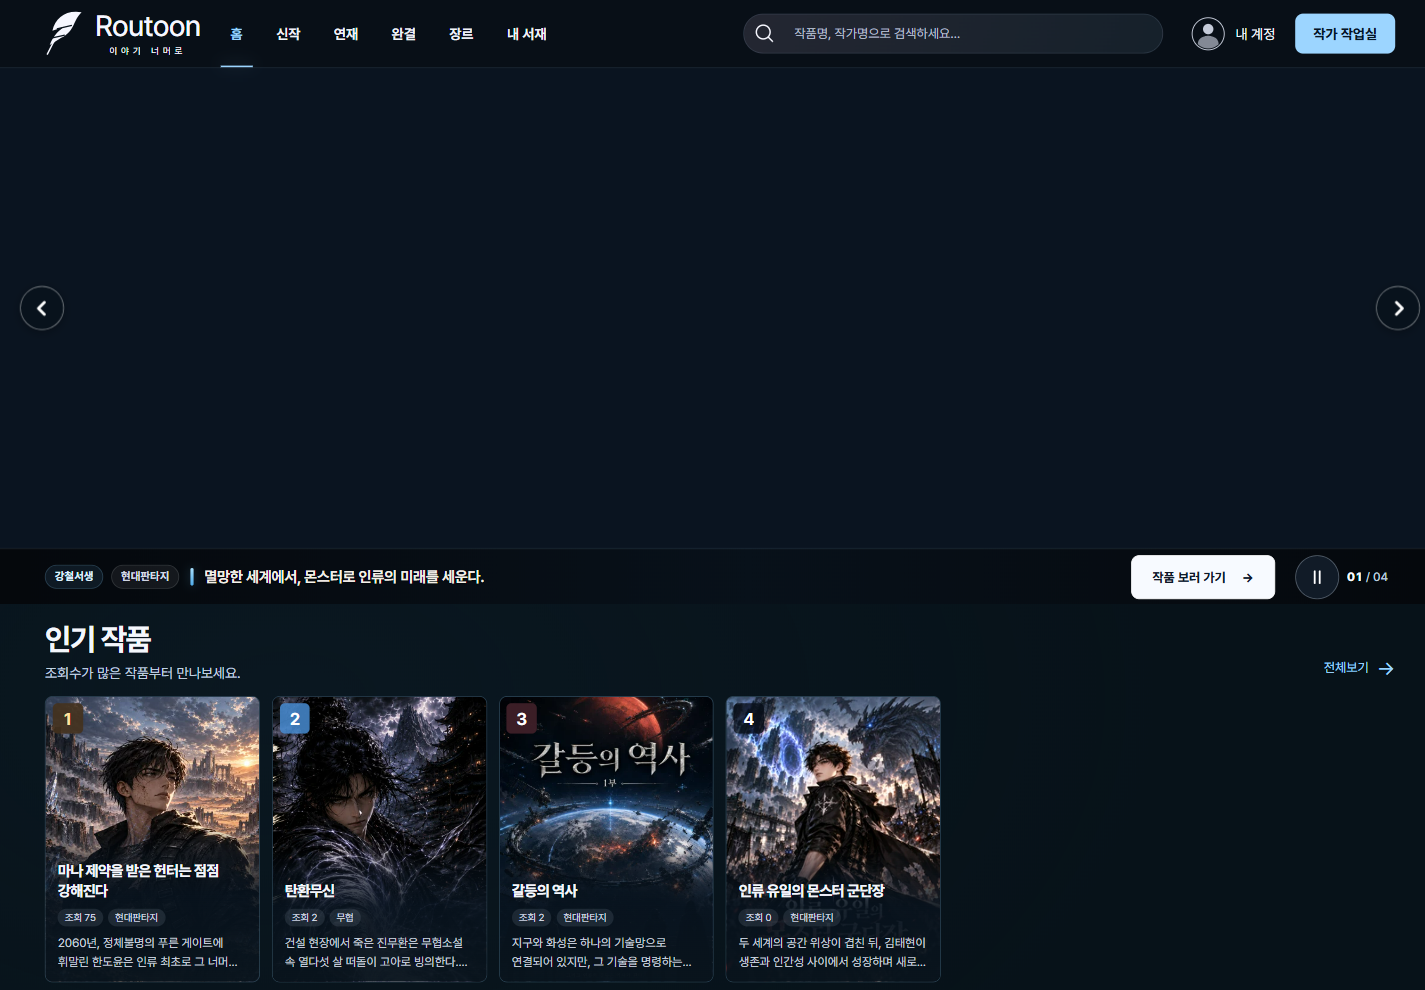
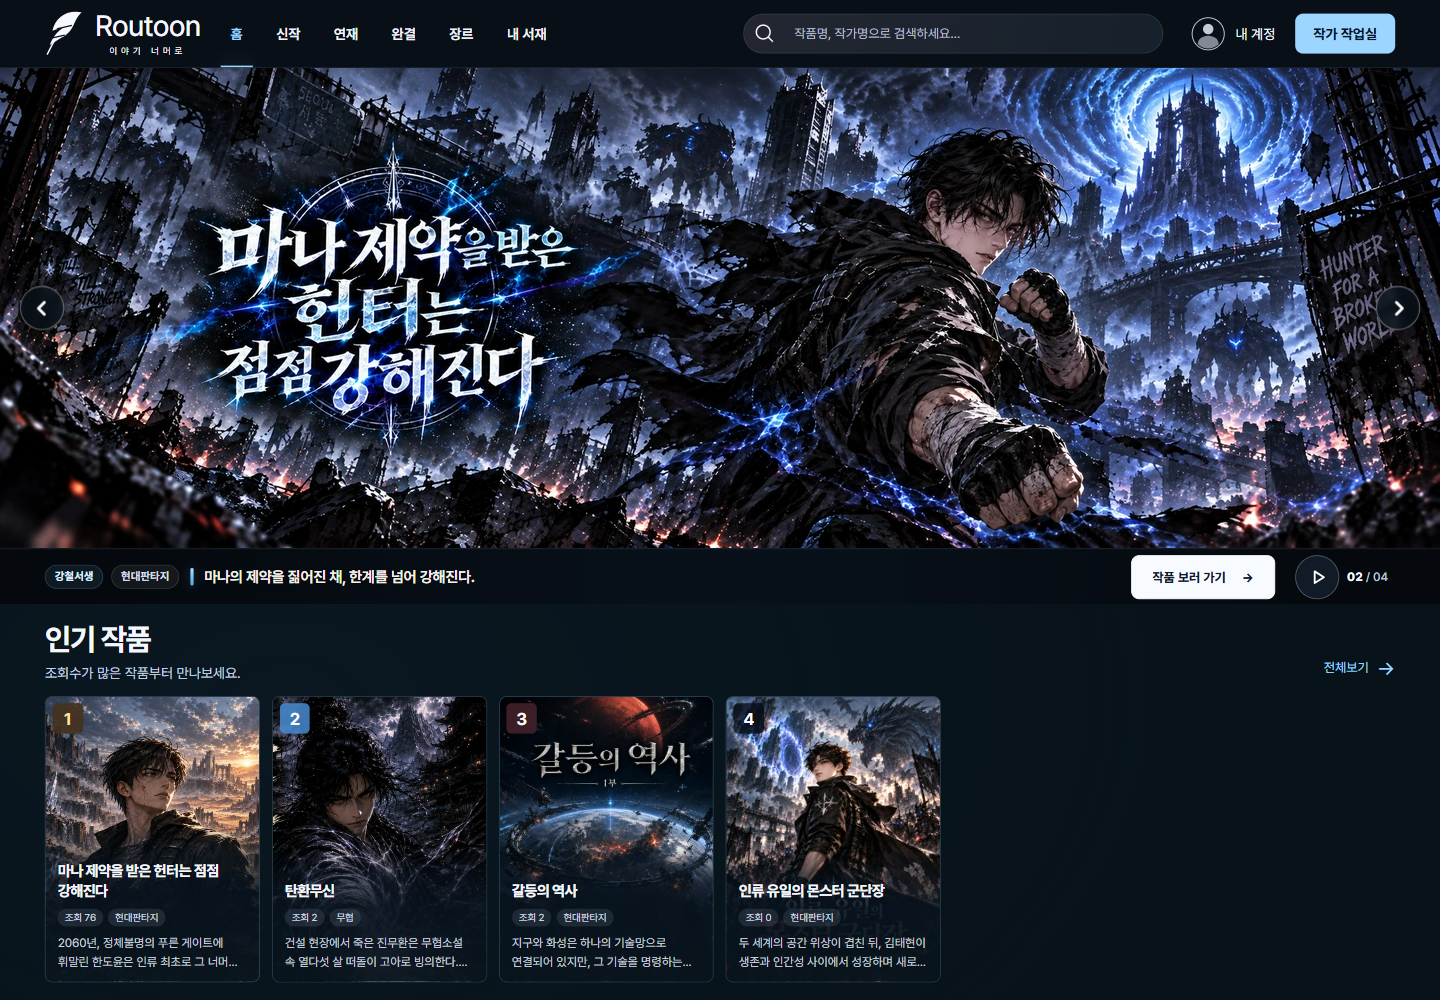
Fix Routoon and ShowRoom project captures

diff --git a/src/lib/projectDetails.ts b/src/lib/projectDetails.ts
@@ -82,13 +82,14 @@ export const projectDetails: ProjectDetail[] = [
       "세계관·사건·관계 데이터를 구조화해 장편 연재 일관성 강화",
     ],
     screenshots: [
-      { src: "/projects/routoon/home.png", alt: "Routoon 독자 서비스 메인 화면", caption: "Routoon 독자 서비스 메인" },
+      { src: "/projects/routoon/home.png", alt: "Routoon 메인 화면과 작품 슬라이드", caption: "메인 화면 · 실제 작품 슬라이드가 표시된 상태" },
       { src: "/projects/routoon/works.png", alt: "Routoon 공개 작품 목록 화면", caption: "공개 작품 목록" },
       { src: "/projects/routoon/work-detail.png", alt: "Routoon 공개 작품 상세 화면", caption: "공개 작품 상세" },
+      { src: "/projects/routoon/reader.png", alt: "Routoon 실제 회차 읽기 화면", caption: "실제 공개 회차 읽기 화면" },
     ],
     liveUrl: "https://reader.routoon.com/",
     liveLabel: "Routoon 접속",
-    screenshotNote: "실제 공개 서비스 화면 기준으로 구성했습니다. 읽기 화면은 별도 캡처로 추가할 예정입니다.",
+    screenshotNote: "실제 공개 서비스에서 캡처한 메인·작품 목록·작품 상세·회차 읽기 화면입니다.",
   },
   {
     slug: "showroom",
@@ -137,11 +138,11 @@ export const projectDetails: ProjectDetail[] = [
       "Unity 게임 자산으로 넘기기 위한 패키징·전달 구조",
     ],
     screenshots: [
-      { src: "/projects/showroom/workspace.png", alt: "ShowRoom WPF 캐릭터 제작 워크스페이스", caption: "WPF 캐릭터 제작 워크스페이스" },
-      { src: "/projects/showroom/pipeline-running.png", alt: "ShowRoom 제작 파이프라인 실행 화면", caption: "제작 파이프라인 실행 상태" },
-      { src: "/projects/showroom/directional-review.png", alt: "ShowRoom 방향별 결과 검토 화면", caption: "방향별 스프라이트·모션 결과 검토" },
+      { src: "/projects/showroom/direction-lab.png", alt: "ShowRoom WPF Direction Lab 화면", caption: "WPF Direction Lab · 방향별 결과 검토" },
+      { src: "/projects/showroom/motion-lab.png", alt: "ShowRoom WPF Motion Lab 화면", caption: "WPF Motion Lab · 모션 프레임 검토" },
+      { src: "/projects/showroom/comparison-final.png", alt: "ShowRoom 원화와 결과 비교 화면", caption: "원화(왼쪽)와 결과(오른쪽) 고해상도 비교" },
     ],
-    screenshotNote: "현재 캡처 구성은 추가 교체 예정이며, 중복 화면과 품질이 낮은 결과 화면은 제거할 예정입니다.",
+    screenshotNote: "서로 다른 WPF 작업 화면과 원화/결과 비교 화면으로 구성했습니다.",
   },
   {
     slug: "random-defense",
